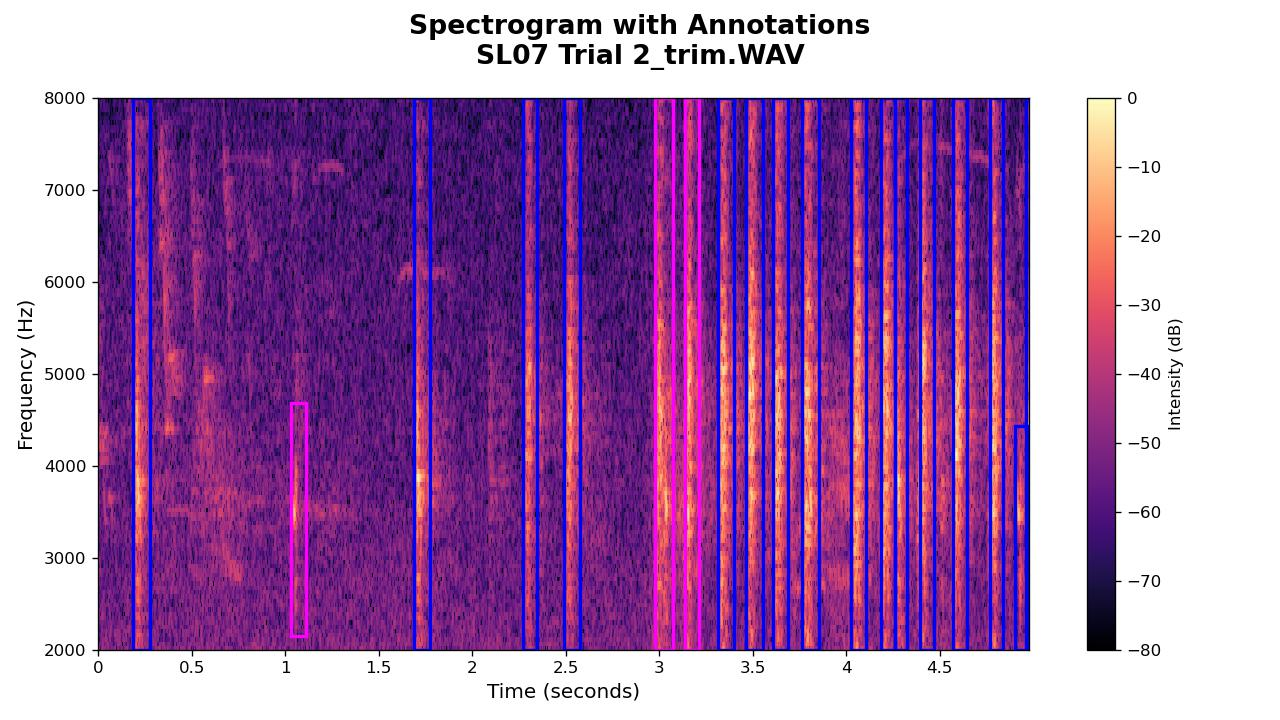
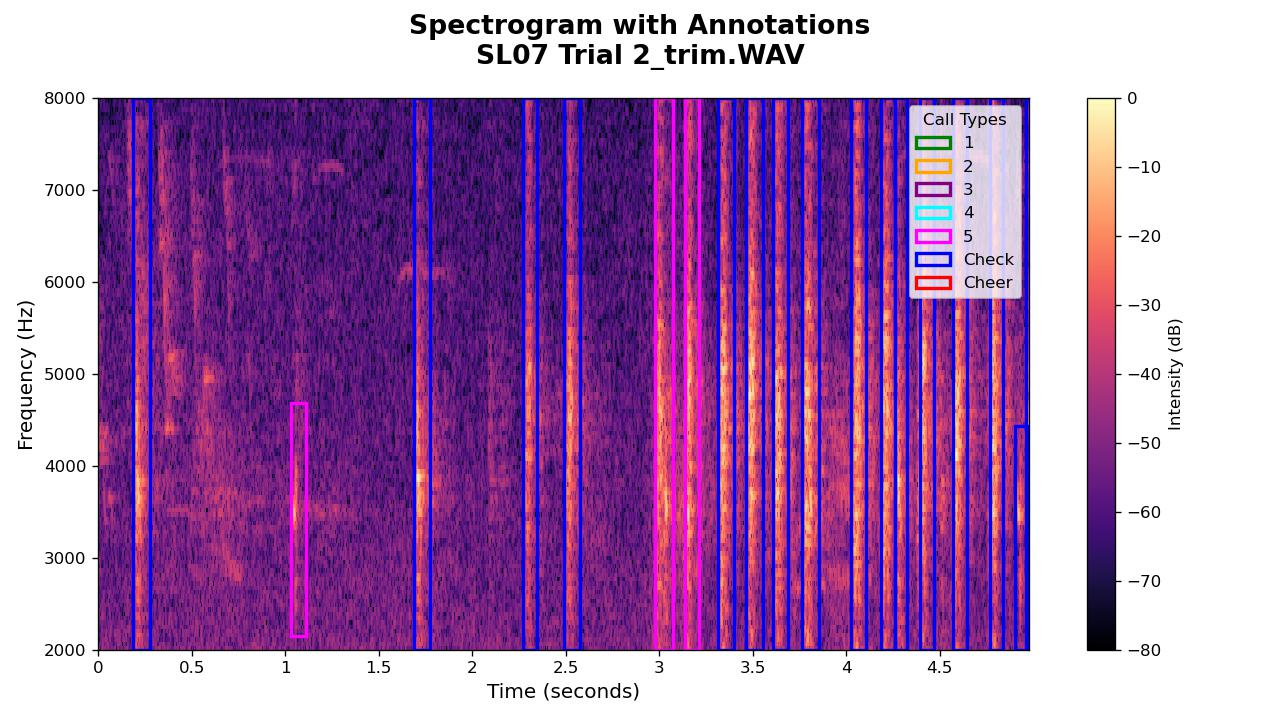
found issue, about to delete old csv and upload new one

Changed region(s): [[0.6875, 0.1222, 0.8125, 0.4278]]

diff --git a/Dataset_processing/Datasets/cv4e_data_ingest.py b/Dataset_processing/Datasets/cv4e_data_ingest.py
@@ -1,0 +1,195 @@
+from __future__ import annotations
+
+from dataclasses import dataclass
+from pathlib import Path
+import re
+
+import pandas as pd
+from beartype import beartype
+
+
+@dataclass(frozen=True, slots=True)
+class IngestPaths:
+    wavs_dpath: Path
+    selections_dpath: Path
+    metadata_xlsx_fpath: Path
+    out_csv_fpath: Path
+
+
+@beartype
+def get_file_id(nest_id: str, trial: int) -> str:
+    nest_id = nest_id.strip()
+    return f"{nest_id}_Trial_{trial}_trim"
+
+
+@beartype
+def strip_leading_25(nest_id: str) -> str:
+    nest_id = nest_id.strip()
+    if not nest_id.startswith("25"):
+        return nest_id
+    return nest_id[2:]
+
+
+@beartype
+def parse_wav_file_id(wav_fpath: Path) -> str | None:
+    # Example stem: "AZ02 Trial 1_trim"
+    stem = wav_fpath.stem
+    m = re.fullmatch(r"(?P<nest>[A-Za-z0-9]+)\s+Trial\s+(?P<trial>\d+)_trim", stem)
+    if m is None:
+        return None
+    nest_id = m.group("nest")
+    trial = int(m.group("trial"))
+    return get_file_id(nest_id, trial)
+
+
+@beartype
+def parse_selection_file_id(selection_fpath: Path) -> str | None:
+    # Example: "AZ02 Trial 1_trim.Table.1.selections" (+ optional .txt)
+    stem = selection_fpath.name
+    stem = re.sub(r"\.txt$", "", stem)
+    stem = re.sub(r"\.selections$", "", stem)
+
+    # Remove Raven table suffix
+    stem = re.sub(r"\.Table\.\d+$", "", stem)
+
+    m = re.fullmatch(r"(?P<nest>[A-Za-z0-9]+)\s+Trial\s+(?P<trial>\d+)_trim", stem)
+    if m is None:
+        return None
+    nest_id = m.group("nest")
+    trial = int(m.group("trial"))
+    return get_file_id(nest_id, trial)
+
+
+@beartype
+def read_metadata(metadata_xlsx_fpath: Path) -> pd.DataFrame:
+    df = pd.read_excel(metadata_xlsx_fpath)
+
+    keep_cols = [
+        "NestID",
+        "Site",
+        "Date",
+        "Time",
+        "Model",
+        "Stage",
+        "NestAge",
+        "NestlingAge",
+        "Trial",
+        "Weather",
+    ]
+    df = df.loc[:, keep_cols].copy()
+
+    df.columns = [c.strip().replace(" ", "_") for c in df.columns]
+
+    df["NestID"] = df["NestID"].astype(str).map(strip_leading_25)
+    df["Trial"] = pd.to_numeric(df["Trial"], errors="raise").astype(int)
+
+    df["file_id"] = [get_file_id(n, t) for n, t in zip(df["NestID"], df["Trial"], strict=True)]
+
+    df = df.drop_duplicates(subset=["file_id"], keep="first").reset_index(drop=True)
+
+    return df
+
+
+@beartype
+def scan_wavs(wavs_dpath: Path) -> pd.DataFrame:
+    wav_fpaths = sorted(p for p in wavs_dpath.rglob("*.wav") if p.is_file())
+
+    rows: list[dict] = []
+    for wav_fpath in wav_fpaths:
+        file_id = parse_wav_file_id(wav_fpath)
+        if file_id is None:
+            continue
+        rows.append(
+            {
+                "file_id": file_id,
+                "wav_fpath": str(wav_fpath.resolve()),
+                "wav_fname": wav_fpath.name[:-4] + ".WAV" if wav_fpath.name.lower().endswith(".wav") else wav_fpath.name,
+            }
+        )
+
+    return pd.DataFrame(rows).drop_duplicates(subset=["file_id"], keep="first")
+
+
+@beartype
+def read_selections(selections_dpath: Path) -> pd.DataFrame:
+    selection_fpaths = sorted(p for p in selections_dpath.rglob("*selections*") if p.is_file())
+
+    dfs: list[pd.DataFrame] = []
+    for selection_fpath in selection_fpaths:
+        file_id = parse_selection_file_id(selection_fpath)
+        if file_id is None:
+            continue
+
+        df = pd.read_csv(selection_fpath, sep="\t", engine="python").copy()
+        df["selection_fpath"] = str(selection_fpath.resolve())
+        df["file_id"] = file_id
+
+        rename_map = {
+            "Begin Time (s)": "begin_time_s",
+            "End Time (s)": "end_time_s",
+            "Low Freq (Hz)": "low_freq_hz",
+            "High Freq (Hz)": "high_freq_hz",
+            "Delta Time (s)": "delta_time_s",
+            "Type": "call_type",
+        }
+        df = df.rename(columns=rename_map)
+        dfs.append(df)
+
+    if not dfs:
+        return pd.DataFrame()
+
+    out = pd.concat(dfs, ignore_index=True)
+
+    out["Channel"] = pd.to_numeric(out["Channel"], errors="coerce")
+    out["channel_is_one"] = out["Channel"].eq(1)
+    out = out.loc[out["channel_is_one"]].reset_index(drop=True)
+
+    for col in ["begin_time_s", "end_time_s", "low_freq_hz", "high_freq_hz", "delta_time_s"]:
+        out[col] = pd.to_numeric(out[col], errors="coerce")
+
+    return out
+
+
+@beartype
+def make_analysis_table(paths: IngestPaths) -> pd.DataFrame:
+    meta_df = read_metadata(paths.metadata_xlsx_fpath)
+    wav_df = scan_wavs(paths.wavs_dpath)
+    sel_df = read_selections(paths.selections_dpath)
+
+    if sel_df.empty:
+        raise RuntimeError(f"No selections found under selections_dpath={paths.selections_dpath}")
+
+    out = sel_df.merge(meta_df, on="file_id", how="left", validate="many_to_one")
+    out = out.merge(wav_df, on="file_id", how="left", validate="many_to_one")
+
+    out["has_wav"] = out["wav_fpath"].notna()
+    out["has_metadata"] = out["Site"].notna()
+
+    sort_cols = ["file_id", "begin_time_s", "end_time_s"]
+    out = out.sort_values(sort_cols, kind="mergesort").reset_index(drop=True)
+
+    return out
+
+
+@beartype
+def setup_write_csv(paths: IngestPaths) -> None:
+    df = make_analysis_table(paths)
+    paths.out_csv_fpath.parent.mkdir(parents=True, exist_ok=True)
+    df.to_csv(paths.out_csv_fpath, index=False)
+
+    n_rows = len(df)
+    n_missing_wav = int((~df["has_wav"]).sum())
+    n_missing_meta = int((~df["has_metadata"]).sum())
+    print(f"Wrote {n_rows} rows to {paths.out_csv_fpath}")
+    print(f"Missing wav path rows: {n_missing_wav}")
+    print(f"Missing metadata rows: {n_missing_meta}")
+
+
+if __name__ == "__main__":
+    paths = IngestPaths(
+        wavs_dpath=Path(r"C:\Users\sllaw\OneDrive\Documents\OSU Postdoc\Data\Recordings\C4VE\Trimmed"),
+        selections_dpath=Path(r"C:\Users\sllaw\OneDrive\Documents\OSU Postdoc\Data\Recordings\C4VE\Selections"),
+        metadata_xlsx_fpath=Path(r"C:\Users\sllaw\OneDrive\Documents\OSU Postdoc\Data\Recordings\Recordings_metadata.xlsx"),
+        out_csv_fpath=Path(r"C:\Users\sllaw\OneDrive\Documents\OSU Postdoc\Data\Recordings\C4VE\derived\cv4e_calls_channel1.csv"),
+    )
+    setup_write_csv(paths)
